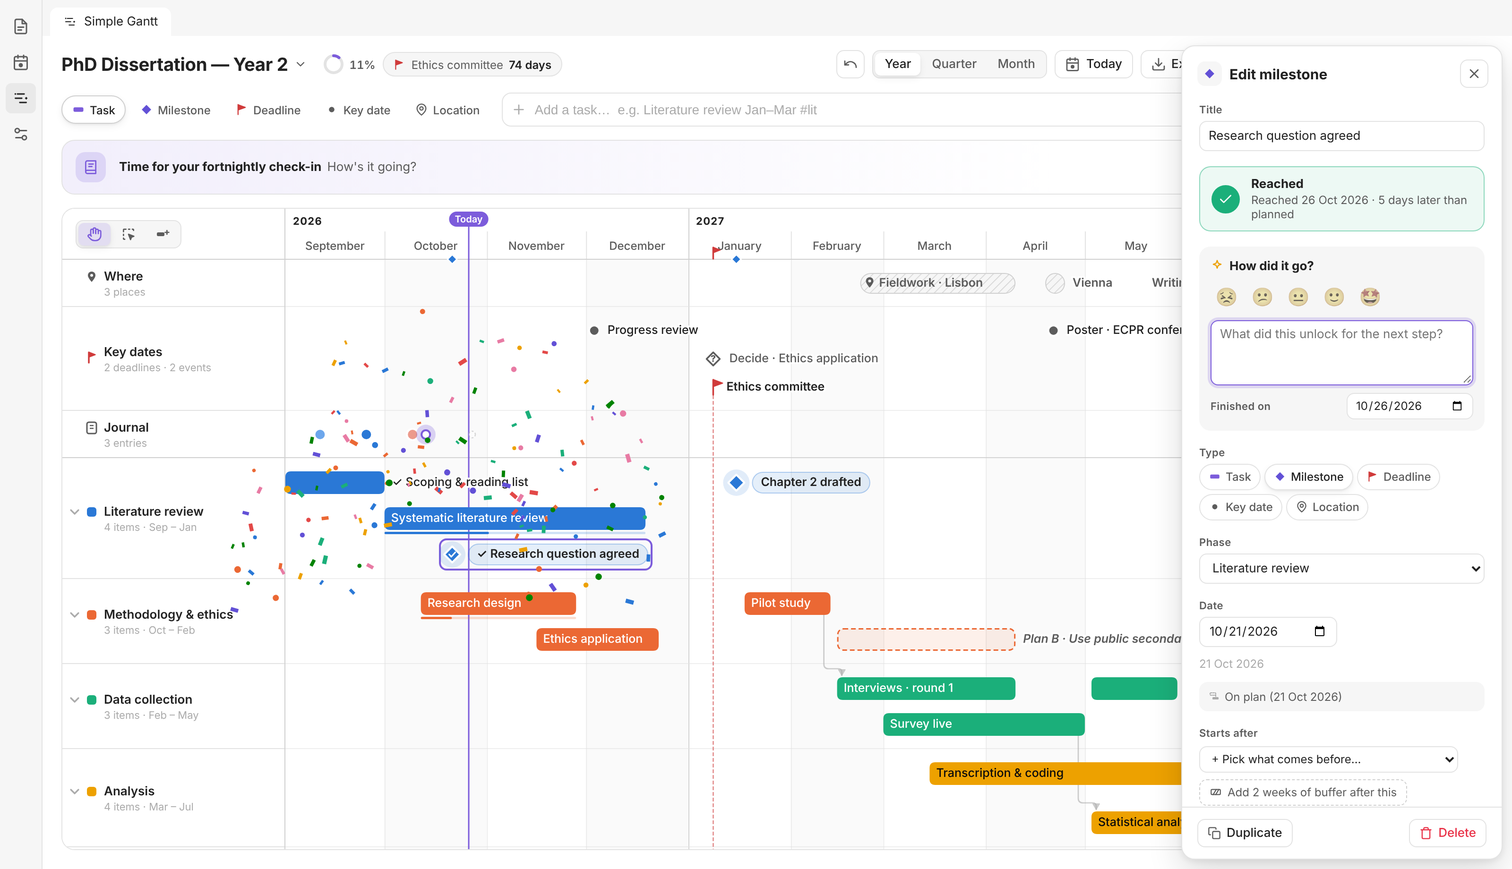
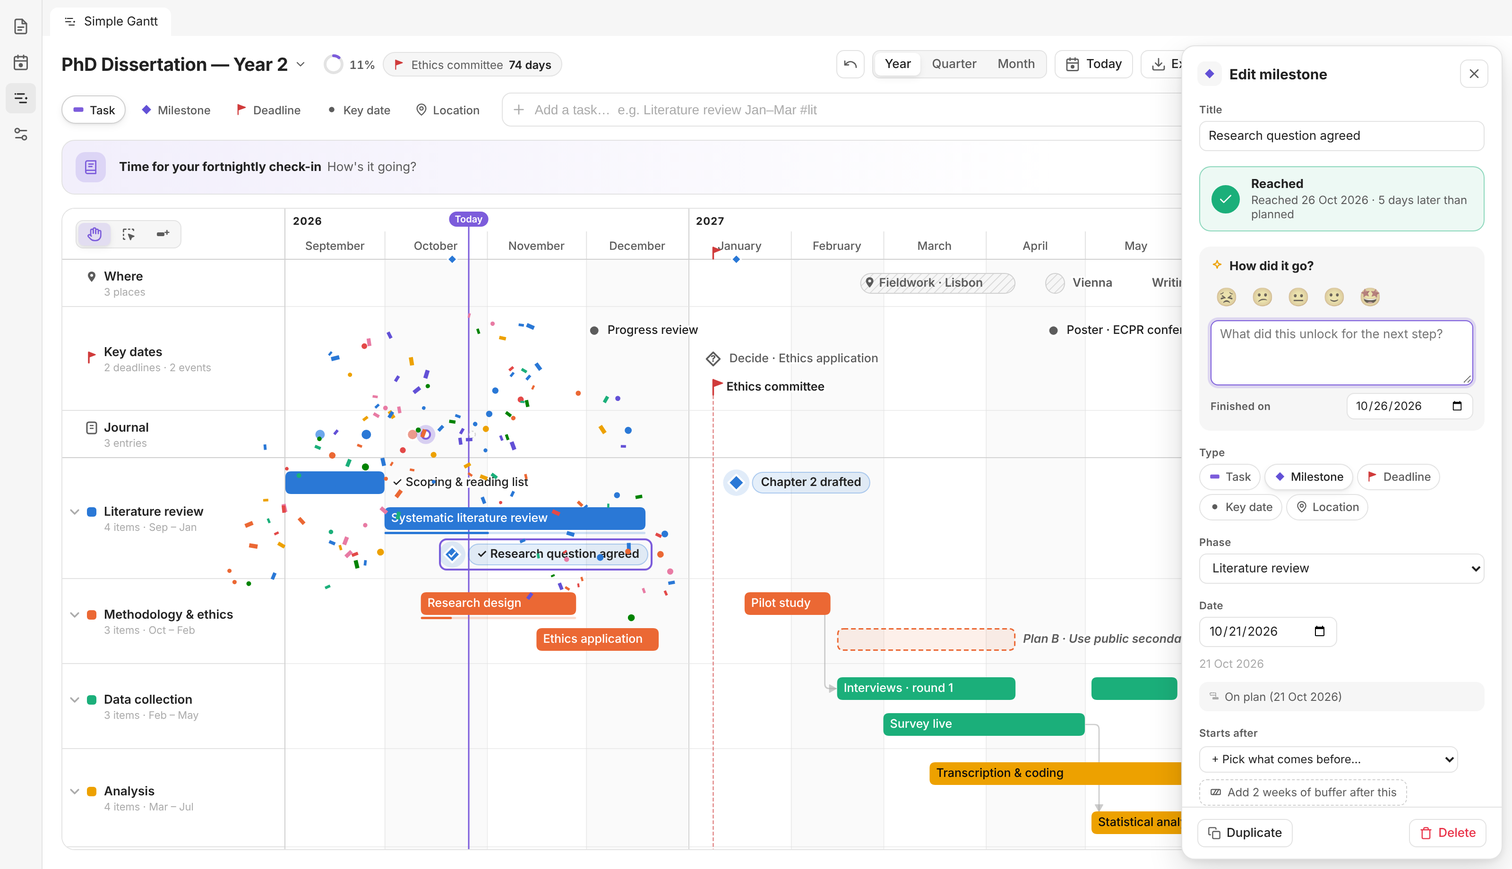
0.6.11: Clearer arrows, Plan B as a dashed extension of its task
- Arrows choose the simplest clear path: straight down when the next step starts under the
  previous one, out of the side and down onto it when it starts further out, or down and into
  its side; whichever runs through the fewest other bars and labels, with the fewest bends
- Arrow tips touch the box they point at; slightly larger heads and darker lines on paper
- A Plan B that carries on from its task sits on the task's row as a dashed extension of the bar,
  with its name above, so no arrow has to cross it
- On paper, slimmer bars leave more room between rows for the arrows

diff --git a/src/core/render.ts b/src/core/render.ts
@@ -363,7 +363,9 @@ export function paintBody(layout: Layout, o: PaintOptions): SVGSVGElement {
 			return `url(#${id})`;
 		},
 	};
-	for (const p of layout.placed) paintItem(items, p, layout, o, fills);
+	// A Plan B that continues a task goes underneath it, so only the part past the task's end shows.
+	const under = (p: Placed) => p.kind === "ghost" && !!p.attachedTo;
+	for (const p of [...layout.placed.filter(under), ...layout.placed.filter((p) => !under(p))]) paintItem(items, p, layout, o, fills);
 	// The selected link's detach button sits on top of everything.
 	if (detach) {
 		const [x, y] = detach;
@@ -527,6 +529,7 @@ function paintLinks(svg: SVGSVGElement, layout: Layout, o: PaintOptions): Pt | n
 	const byId = new Map(layout.placed.filter((p) => p.kind === "item").map((p) => [p.item.id, p]));
 	const g = svgEl("g", { class: "sg-links", fill: "none", "pointer-events": "none" }, svg);
 	let detach: Pt | null = null;
+	const obstacles = obstaclesOf(layout, !!o.print);
 	for (const succ of byId.values()) {
 		for (const id of succ.item.after ?? []) {
 			const pred = byId.get(id);
@@ -535,10 +538,10 @@ function paintLinks(svg: SVGSVGElement, layout: Layout, o: PaintOptions): Pt | n
 			if (o.print && Math.abs(layout.lanes.indexOf(pred.lane) - layout.lanes.indexOf(succ.lane)) > 1) continue;
 			// …and so is one into a buffer that's drawn as part of its task's bar.
 			if (o.print && succ.attachedTo) continue;
-			const pts = routeLink(pred, succ, layout);
+			const pts = routeLink(pred, succ, layout, obstacles, !!o.print);
 			if (!pts) continue;
 			const bad = succ.startDay < earliestAfter(pred.item, succ.item);
-			const color = bad ? theme.deadline : theme.inkMuted;
+			const color = bad ? theme.deadline : o.print ? theme.inkSecondary : theme.inkMuted;
 			// Links to or from a deadline duplicate its dashed rule: on screen they show on hover, on paper not at all.
 			const touchesDeadline = pred.item.type === "deadline" || succ.item.type === "deadline";
 			if (touchesDeadline && !bad && !o.interactive) continue;
@@ -549,7 +552,7 @@ function paintLinks(svg: SVGSVGElement, layout: Layout, o: PaintOptions): Pt | n
 			const cls = `sg-link${bad ? " is-bad" : ""}${quiet ? " is-quiet" : ""}${selected ? " is-selected" : ""}${crit}`;
 			const link = svgEl("g", { class: cls, "data-link": key }, g);
 			const d = roundedPath(pts, 5);
-			const attrs = { stroke: color, "stroke-linecap": "round", "stroke-linejoin": "round", opacity: bad ? 0.9 : o.print ? 0.45 : 0.6 };
+			const attrs = { stroke: color, "stroke-linecap": "round", "stroke-linejoin": "round", opacity: bad ? 0.9 : o.print ? 0.7 : 0.6 };
 			svgEl("path", { d, ...attrs, "stroke-width": bad ? 1.6 : 1.35, class: "sg-link-line" }, link);
 			svgEl("path", { d: arrowHead(pts), ...attrs, fill: color, "stroke-width": 1, class: "sg-link-head" }, link);
 			// A wide invisible stroke makes the thin line easy to hover and click.
@@ -576,49 +579,117 @@ function midpoint(pts: Pt[]): Pt {
 
 type Pt = [number, number];
 
+interface Box { x0: number; y0: number; x1: number; y1: number }
+/** Something an arrow should avoid: a mark itself, or its label. */
+interface Obstacle { box: Box; owner: Placed; mark: boolean }
+
+/** Everything an arrow should avoid running through: marks, their labels and buffer captions. */
+function obstaclesOf(layout: Layout, print: boolean): Obstacle[] {
+	const out: Obstacle[] = [];
+	const fs = layout.g.fontSize;
+	for (const p of layout.placed) {
+		const h = halfHeight(p, print);
+		out.push({ owner: p, mark: true, box: { x0: p.x0, y0: p.cy - h, x1: p.x1, y1: p.cy + h } });
+		if (!p.label || p.labelInside) continue;
+		const lx0 = p.labelAnchor === "end" ? p.labelX - p.labelW : p.labelX;
+		const above = !!p.attachedTo;
+		const ly = above ? p.cy - p.lane.markH / 2 - fs / 2 - 1.5 : p.cy;
+		out.push({ owner: p, mark: false, box: { x0: lx0, y0: ly - fs * 0.55, x1: lx0 + p.labelW, y1: ly + fs * 0.55 } });
+	}
+	return out;
+}
+
+/** Half the height of a mark, from its centre to the edge an arrow touches. */
+function halfHeight(p: Placed, print: boolean): number {
+	const t = p.item.type;
+	if (p.kind !== "item" || t === "task" || t === "location") return p.lane.markH / 2;
+	if (t === "milestone") return (print ? 9.5 : 8.5) + 0.8;
+	if (t === "deadline") return 8.5;
+	return 6.5;
+}
+
 /**
- * Orthogonal route for a finish-to-start link. It leaves from just under (or over) the end of the
- * predecessor, so it never crosses that item's label, and drops onto the starting corner of the
- * next bar, so a chain of steps reads as a staircase. Milestones, deadlines and key dates are
- * entered through their top (or bottom) point.
+ * The route for a finish-to-start link. A few clean shapes are tried and the one that runs through the
+ * fewest other bars and labels wins, with fewer bends breaking ties:
+ *  - straight down (or up) when the next step starts under the previous one,
+ *  - out of the side of the previous step, then down onto the top of the next one (┐),
+ *  - down from the previous step, then into the side of the next one (└→),
+ *  - a staircase through the gap above the next step, only when nothing simpler is clear.
+ * Arrows always end on the edge of the mark they point at.
  */
-function routeLink(pred: Placed, succ: Placed, layout: Layout): Pt[] | null {
-	const down = succ.cy > pred.cy;
-	const sign = down ? 1 : -1;
+function routeLink(pred: Placed, succ: Placed, layout: Layout, obstacles: Obstacle[], print: boolean): Pt[] | null {
+	const sign = succ.cy > pred.cy ? 1 : -1;
 	const point = (p: Placed) => p.item.type !== "task" && p.item.type !== "location";
-	const predHalf = point(pred) ? 9 : pred.lane.markH / 2;
-	const succHalf = point(succ) ? 10 : succ.lane.markH / 2;
-	const sx = point(pred) ? (pred.x0 + pred.x1) / 2 : pred.x1 - Math.min(7, (pred.x1 - pred.x0) / 2);
-	const sy = pred.cy + sign * predHalf;
-	const tx = succ.x0 - 2;
-	const ty = succ.cy;
+	const pc = (pred.x0 + pred.x1) / 2, sc = (succ.x0 + succ.x1) / 2;
+	const ph = halfHeight(pred, print), sh = halfHeight(succ, print);
+	const pEdge = pred.cy + sign * ph;
+	const sEdge = succ.cy - sign * sh;
 
 	if (Math.abs(pred.cy - succ.cy) < 1) {
 		// Same row: a short straight line from the end of the predecessor's footprint (bar or label).
 		const from = pred.labelInside || !pred.labelW || pred.labelAnchor === "end" ? pred.x1 + 2 : pred.labelX + pred.labelW + 6;
-		return tx - from >= 10 ? [[from, ty], [tx, ty]] : null;
+		const to = succ.x0 - 1;
+		return to - from >= 10 ? [[from, succ.cy], [to, succ.cy]] : null;
 	}
-	const edge = succ.cy - sign * (succHalf + 2);
-	const gap = succ.cy - sign * (succHalf + (layout.g.rowPitch - layout.g.barH) / 2 + 2);
-	if (point(succ)) {
-		const cx = (succ.x0 + succ.x1) / 2;
-		// Right under the predecessor: a straight drop.
-		if (point(pred) ? Math.abs(cx - sx) < 1 : cx >= pred.x0 + 3 && cx <= pred.x1 - 1) return [[cx, sy], [cx, edge]];
-		// Nothing to the right of the predecessor: leave from its end, across, then down onto the point.
-		const clear = !pred.labelW || pred.labelAnchor === "end" || (!point(pred) && pred.labelInside);
-		const ex = pred.x1 + 1;
-		if (clear && cx - ex >= 4) return [[ex, pred.cy], [cx, pred.cy], [cx, edge]];
-		return [[sx, sy], [sx, gap], [cx, gap], [cx, edge]];
+
+	// Where the arrow may leave the predecessor and land on the successor.
+	// (A bar may be left from just past its end: where one step ends and the next begins, a straight drop.)
+	const pRange: [number, number] = point(pred) ? [pc, pc] : [pred.x0 + 2, pred.x1 + 3];
+	const sRange: [number, number] = point(succ) ? [sc, sc] : [succ.x0 + Math.min(1, (succ.x1 - succ.x0) / 2), succ.x1 - 2];
+	const want = point(succ) ? sc : succ.x0 + Math.min(8, (succ.x1 - succ.x0) / 2);
+	const pSide = point(pred) ? pc + ph + 1 : pred.x1 + 1;
+	const pEnd = point(pred) ? pc : pred.x1 - Math.min(6, (pred.x1 - pred.x0) / 2);
+	const sSide = point(succ) ? sc - sh - 1 : succ.x0 - 1;
+	const gapY = sEdge - sign * Math.max(4, Math.min(10, (layout.g.rowPitch - layout.g.barH) / 2));
+
+	const options: { pts: Pt[]; bends: number }[] = [];
+	// Straight drop.
+	const lo = Math.max(pRange[0], sRange[0]), hi = Math.min(pRange[1], sRange[1]);
+	if (lo <= hi + 0.01) {
+		const x = Math.min(hi, Math.max(lo, want));
+		options.push({ pts: [[x, pEdge], [x, sEdge]], bends: 0 });
 	}
-	// Into a bar: arrive from above (or below) on its starting corner, so a chain of steps reads as a staircase.
-	const cx = succ.x0 + Math.min(5, (succ.x1 - succ.x0) / 2);
-	const range: [number, number] = point(pred) ? [sx - 3, sx + 3] : [pred.x0 + 3, pred.x1 + 4];
-	// Starts under the predecessor (or right at its end): one straight drop.
-	if (cx >= range[0] && cx <= range[1]) return [[cx, sy], [cx, edge]];
-	// Starts later: down from the predecessor's end, across just above the successor, then down onto its corner.
-	if (cx > range[1]) return [[sx, sy], [sx, gap], [cx, gap], [cx, edge]];
-	// Fully backwards: come round through the gap and enter from the left.
-	return [[sx, sy], [sx, gap], [tx - 10, gap], [tx - 10, ty], [tx, ty]];
+	// Out of the side, then down onto the top.
+	const tx = point(succ) ? sc : Math.min(sRange[1], Math.max(want, pSide + 6));
+	if (tx - pSide >= 4) options.push({ pts: [[pSide, pred.cy], [tx, pred.cy], [tx, sEdge]], bends: 1 });
+	// Down, then into the side.
+	if (sSide - pEnd >= 8) options.push({ pts: [[pEnd, pEdge], [pEnd, succ.cy], [sSide, succ.cy]], bends: 1.5 });
+	// Staircase through the gap next to the successor.
+	if (Math.abs(want - pEnd) >= 2) options.push({ pts: [[pEnd, pEdge], [pEnd, gapY], [want, gapY], [want, sEdge]], bends: 2.5 });
+	// Fully backwards: round through the gap and in from the left.
+	options.push({ pts: [[pEnd, pEdge], [pEnd, gapY], [sSide - 10, gapY], [sSide - 10, succ.cy], [sSide, succ.cy]], bends: 4 });
+
+	let best: Pt[] | null = null, bestCost = Infinity;
+	for (const o of options) {
+		const cost = crossings(o.pts, obstacles, pred, succ) * 100 + o.bends * 3 + pathLength(o.pts) / 400;
+		if (cost < bestCost) [best, bestCost] = [o.pts, cost];
+	}
+	return best;
+}
+
+/** How many marks or labels a route runs through (its own two ends don't count). */
+function crossings(pts: Pt[], obstacles: Obstacle[], pred: Placed, succ: Placed): number {
+	let n = 0;
+	for (const { box, owner, mark } of obstacles) {
+		// The two marks the route connects are its endpoints; their labels still count.
+		if (mark && (owner === pred || owner === succ)) continue;
+		const b = { x0: box.x0 + 1, y0: box.y0 + 1, x1: box.x1 - 1, y1: box.y1 - 1 };
+		for (let i = 1; i < pts.length; i++) {
+			const [ax, ay] = pts[i - 1], [bx, by] = pts[i];
+			const sx0 = Math.min(ax, bx), sx1 = Math.max(ax, bx), sy0 = Math.min(ay, by), sy1 = Math.max(ay, by);
+			if (sx1 >= b.x0 && sx0 <= b.x1 && sy1 >= b.y0 && sy0 <= b.y1) {
+				n++;
+				break;
+			}
+		}
+	}
+	return n;
+}
+
+function pathLength(pts: Pt[]): number {
+	let l = 0;
+	for (let i = 1; i < pts.length; i++) l += Math.abs(pts[i][0] - pts[i - 1][0]) + Math.abs(pts[i][1] - pts[i - 1][1]);
+	return l;
 }
 
 /** A polyline with softly rounded corners (radius r, never more than half of either segment). */
@@ -642,8 +713,8 @@ function arrowHead(pts: Pt[]): string {
 	const [px, py] = pts[pts.length - 2];
 	const len = Math.hypot(x - px, y - py) || 1;
 	const ux = (x - px) / len, uy = (y - py) / len;
-	const bx = x - ux * 6, by = y - uy * 6;
-	return `M${x},${y} L${bx - uy * 3.5},${by + ux * 3.5} L${bx + uy * 3.5},${by - ux * 3.5} Z`;
+	const bx = x - ux * 7, by = y - uy * 7;
+	return `M${x},${y} L${bx - uy * 4},${by + ux * 4} L${bx + uy * 4},${by - ux * 4} Z`;
 }
 
 /** Where an item sat in the saved plan, drawn as a faint dashed outline when it has moved since. */
@@ -699,12 +770,19 @@ function paintDerived(g: SVGGElement, p: Placed, layout: Layout, o: PaintOptions
 	}
 	if (p.kind === "ghost") {
 		const top = p.cy - layout.g.barH / 2;
-		svgEl("rect", {
-			x: p.x0 + 0.75, y: top + 0.75, width: Math.max(2, p.x1 - p.x0 - 1.5), height: layout.g.barH - 1.5, rx: 6,
+		const w = Math.max(2, p.x1 - p.x0 - 1.5);
+		svgEl("path", {
+			d: barPath(p.x0 + 0.75, top + 0.75, w, layout.g.barH - 1.5, 6, !p.squareLeft, !p.squareRight),
 			fill: color, "fill-opacity": 0.1, stroke: color, "stroke-width": 1.5, "stroke-dasharray": "5 3",
 			class: "sg-mark", "data-part": "body",
 		}, g);
-		text(g, p.labelX, p.cy, p.label, { ...labelAttrs, ...(p.labelInside ? {} : halo(theme)), fill: p.labelInside ? color : theme.inkSecondary, "font-style": "italic", "font-weight": 600 });
+		if (p.attachedTo) {
+			// A dashed extension of its task (drawn under the bar), named just above.
+			text(g, p.labelX, top - layout.g.fontSize / 2 - 1.5, p.label, {
+				...labelAttrs, ...halo(theme), "text-anchor": p.labelAnchor, "font-size": layout.g.fontSize - 1.5,
+				fill: theme.inkSecondary, "font-style": "italic",
+			});
+		} else text(g, p.labelX, p.cy, p.label, { ...labelAttrs, ...(p.labelInside ? {} : halo(theme)), fill: p.labelInside ? color : theme.inkSecondary, "font-style": "italic", "font-weight": 600 });
 	} else if (p.kind === "decision") {
 		const r = 7;
 		const due = p.state === "due";

diff --git a/dev/integration.ts b/dev/integration.ts
@@ -3,6 +3,7 @@ import { App, notices } from "obsidian";
 import SimpleGanttPlugin from "../src/main";
 import { isOn } from "../src/core/features";
 import { renderPrintPages } from "../src/core/print";
+import { normalizeProject } from "../src/core/serialize";
 
 const log: string[] = [];
 const sleep = (ms: number) => new Promise((r) => setTimeout(r, ms));
@@ -505,6 +506,25 @@ function check(cond: unknown, msg: string) {
 		const words = [...sheet.querySelectorAll("text")].map((t) => t.textContent ?? "");
 		check(!words.some((w) => /^(PHASES|KEY|DEADLINES|PHASE)$/.test(w) || /\d+ items? ·/.test(w)), "the printout has no legend, deadline band or item counts");
 		check(deadlineTitles.length > 0 && deadlineTitles.every((d: string) => words.filter((w) => w.startsWith(d)).length === 1), `each deadline is named once (${deadlineTitles.length} deadlines)`);
+		// Arrows: the cases from the sketches each take one straight drop or a single bend.
+		const sketch = normalizeProject({
+			title: "Arrows", start: "2026-11-01", end: "2027-08-31",
+			phases: [{ id: "d", name: "Data" }, { id: "w", name: "Writing" }, { id: "s", name: "Submission" }],
+			items: [
+				{ id: "e1", type: "task", title: "Selection and acquisition of ECU", phase: "d", start: "2026-11-10", end: "2026-12-04",
+					planB: { by: "2026-11-27", title: "Public image", start: "2026-11-30", end: "2026-12-11" } },
+				{ id: "em", type: "milestone", title: "ECU in hand", phase: "d", start: "2026-12-04", after: ["e1"] },
+				{ id: "rd", type: "task", title: "Results", phase: "w", start: "2027-06-01", end: "2027-07-30" },
+				{ id: "fd", type: "milestone", title: "Full draft", phase: "w", start: "2027-08-02", after: ["rd"] },
+				{ id: "rv", type: "task", title: "Revisions", phase: "s", start: "2027-08-02", end: "2027-08-20", after: ["fd"] },
+				{ id: "pf", type: "task", title: "Proofread", phase: "s", start: "2027-08-21", end: "2027-08-25", after: ["rv"] },
+			],
+		});
+		const sheetA = renderPrintPages(sketch, { today: 20761 })[0];
+		const bends = (key: string) => (sheetA.querySelector(`.sg-link[data-link="${key}"] .sg-link-line`)?.getAttribute("d")?.match(/Q/g) ?? []).length;
+		const drawn = ["e1 em", "rd fd", "fd rv", "rv pf"].filter((k) => sheetA.querySelector(`.sg-link[data-link="${k}"]`));
+		check(drawn.length === 4 && bends("e1 em") === 0 && bends("fd rv") === 0, "an arrow to a step that starts under the previous one drops straight down");
+		check(bends("rd fd") <= 1 && bends("rv pf") <= 1, `an arrow to a step that starts further out leaves from the side, then goes down (${bends("rd fd")}, ${bends("rv pf")} bends)`);
 		log.push(`notices: ${JSON.stringify(notices)}`);
 		(window as any).__note = await app.vault.read(file);
 	} catch (e) {

diff --git a/src/core/layout.ts b/src/core/layout.ts
@@ -346,10 +346,17 @@ export function computeLayout(project: Project, opts: LayoutOptions): Layout {
 			return { mark, item, s, e, label, labelW, x0, x1, labelX, labelInside, labelAnchor, from, to };
 		});
 		// Buffer time sits on the row of the task it belongs to (one it overlaps, or follows within a week),
-		// joined to the bar like an extension of it, with its name above.
+		// joined to the bar like an extension of it, with its name above. A Plan B that runs past the end of
+		// its task is drawn the same way: a dashed extension of the bar.
 		const hostOf = new Map<number, number>();
 		const isTask = (q: (typeof pre)[number]) => q.mark.kind === "item" && q.item.type === "task" && !q.item.dropped;
 		if (!strip && !flat) {
+			pre.forEach((b, i) => {
+				if (b.mark.kind !== "ghost") return;
+				const j = pre.findIndex((t) => isTask(t) && t.item.id === b.mark.parentId);
+				// Only when it carries on from the task (overlaps it or starts within a week of its end).
+				if (j >= 0 && b.e > pre[j].e && b.s - pre[j].e <= 7) hostOf.set(i, j);
+			});
 			pre.forEach((b, i) => {
 				if (!isTask(b) || !b.item.buffer) return;
 				let best = -1, bestScore = Infinity;
@@ -368,8 +375,10 @@ export function computeLayout(project: Project, opts: LayoutOptions): Layout {
 				const b = pre[i], t = pre[j];
 				b.labelW = b.label ? opts.measure(b.label, 500, labelSize) : 0;
 				b.labelInside = false;
-				b.labelAnchor = b.x0 + b.labelW + 2 > width ? "end" : "start";
-				b.labelX = b.labelAnchor === "end" ? b.x1 : b.x0 + 1;
+				// Over the part that shows: a Plan B under its task only shows past the task's end.
+				const shown = b.mark.kind === "ghost" ? Math.max(b.x0, t.x1) : b.x0;
+				b.labelAnchor = shown + b.labelW + 2 > width ? "end" : "start";
+				b.labelX = b.labelAnchor === "end" ? b.x1 : shown + 1;
 				b.from = Math.min(t.from, b.x0);
 				b.to = b.x1;
 				// The task's own label moves past the buffer (or out of the bar, if the buffer covers it).
@@ -431,8 +440,9 @@ export function computeLayout(project: Project, opts: LayoutOptions): Layout {
 				const b = pre[i], t = pre[j];
 				return { attachedTo: t.item.id, squareLeft: b.s <= t.e + 1, squareRight: b.e < t.e };
 			}
-			const follows = [...hostOf].some(([bi, tj]) => tj === i && pre[bi].s === pre[i].e + 1);
-			return follows ? { squareRight: true } : {};
+			// The task's end is square where something continues it.
+			const continued = [...hostOf].some(([bi, tj]) => tj === i && pre[bi].s <= pre[i].e + 1 && pre[bi].e > pre[i].e);
+			return continued ? { squareRight: true } : {};
 		};
 
 		pre.forEach((p, i) => {

diff --git a/dev/nudges.test.ts b/dev/nudges.test.ts
@@ -347,5 +347,24 @@ t("buffers sit on their task's row, joined to it, with the task's label moved pa
 	assert.ok(at("s1").labelInside || at("s1").labelX >= at("sb").x1, "the task's own label doesn't sit on the buffer");
 });
 
+t("a Plan B that carries on from its task is drawn on the task's row; a later one keeps its own", () => {
+	const p = normalizeProject({
+		start: "2026-11-01", end: "2027-03-31",
+		phases: [{ id: "d", name: "Data" }],
+		items: [
+			{ id: "e1", type: "task", title: "Get an ECU", phase: "d", start: "2026-11-10", end: "2026-12-04",
+				planB: { by: "2026-11-27", title: "Public image", start: "2026-11-30", end: "2026-12-11" } },
+			{ id: "x1", type: "task", title: "Ethics", phase: "d", start: "2026-11-01", end: "2026-11-20",
+				planB: { by: "2027-01-08", title: "Secondary data", start: "2027-01-18", end: "2027-02-20" } },
+		],
+	});
+	const lay = computeLayout(p, { pxPerDay: 3, showEmptyLanes: false, measure: (s: string) => s.length * 6, print: true, today });
+	const at = (id: string) => lay.placed.find((x) => x.item.id === id)!;
+	assert.equal(at("e1~planb").attachedTo, "e1");
+	assert.equal(at("e1~planb").cy, at("e1").cy);
+	assert.ok(at("e1").squareRight, "the task's end joins the dashed extension");
+	assert.equal(at("x1~planb").attachedTo, undefined, "a Plan B weeks later stays separate");
+});
+
 console.log(failed ? `\n${failed} failed` : `\nall nudge/journal/link/feature tests passed`);
 if (failed) process.exit(1);

diff --git a/src/core/print.ts b/src/core/print.ts
@@ -1,5 +1,5 @@
 import { formatDay, toDay } from "./dates";
-import { Lane, Layout, computeLayout } from "./layout";
+import { COMPACT, Lane, Layout, PRINT_GEOMETRY, computeLayout } from "./layout";
 import { NS, PaintOptions, formatPeriod, makeMeasure, nest, paintBody, paintHeader, paintLabels, svgEl, text } from "./render";
 import { PRINT_THEME, Theme } from "./theme";
 import type { Project } from "./types";
@@ -33,8 +33,9 @@ export function renderPrintPages(project: Project, opts: PrintOptions = {}): SVG
 	// Roomier rows when the plan fits that way; tight print rows otherwise.
 	let layout = computeLayout(project, { pxPerDay: 1, showEmptyLanes: false, measure, density: "print", print: true });
 	const days = layout.viewEnd - layout.viewStart + 1;
-	for (const density of ["compact", "print"] as const) {
-		layout = computeLayout(project, { pxPerDay: timelineW / days, showEmptyLanes: false, measure, density, print: true });
+	// Slim bars with room between the rows, so the arrows between steps are easy to follow.
+	for (const geometry of [{ ...COMPACT, barH: 18, stripH: 16 }, PRINT_GEOMETRY]) {
+		layout = computeLayout(project, { pxPerDay: timelineW / days, showEmptyLanes: false, measure, geometry, print: true });
 		if (layout.bodyH <= room(title1, layout.headerH)) break;
 	}
 	// A plan that fits with room to spare gets airier rows, so the chart fills the sheet instead of leaving it half empty.

diff --git a/README.md b/README.md
@@ -115,8 +115,8 @@ The overview panel shows your next deadline, what's on now and what's coming up.
 - **Year overview first.** The board opens on the whole project with a today line. Zoom to **Quarter** or **Month**, or use Ctrl/Cmd + scroll.
 - **Quick add** understands dates, durations, phases, types and progress (see [Quick add](https://github.com/Nexziz/simple-gantt#quick-add)).
 - **Right-click an empty row** to add a task, milestone, deadline or place exactly there, with its name ready to type.
-- **Buffer time:** plan slack for the delays that always come (hatched bars, `~` in quick add).
-- **Plan B / decision points:** *"If this isn't done by 8 Jan, I'll use public data instead."* When the date comes, you decide: switch to Plan B (the original stays, faded, as a record) or carry on.
+- **Buffer time:** plan slack for holidays and the delays that always come (`~` in quick add). A buffer that falls inside a task, or right after it, is drawn as a hatched stretch of that task's bar with its name above.
+- **Plan B / decision points:** *"If this isn't done by 8 Jan, I'll use public data instead."* A Plan B that carries on from its task shows as a dashed extension of the bar. When the date comes, you decide: switch to Plan B (the original stays, faded, as a record) or carry on.
 - **Templates:** *Dissertation* (twelve months of research phases) or *Blank*.
 - **Import** from Excel, Google Sheets, Numbers, CSV/TSV, Markdown tables, Mermaid `gantt` charts or a plain list (one item per line, written like quick add; Markdown headings become phases, `- [x]` means done). Columns are recognised by name (Task, Phase, Start, End, Duration, % Complete, Status, Predecessors…), day-first and month-first dates are told apart, and links come along.
 </details>
@@ -127,7 +127,7 @@ The overview panel shows your next deadline, what's on now and what's coming up.
 - **Move around like on a Canvas:** drag empty space (or use the middle mouse button) to scroll the chart, and Ctrl/Cmd + scroll to zoom. The tools in the chart's corner switch what a drag on empty space does: move around (<kbd>H</kbd>, the default), select (<kbd>V</kbd>) or draw tasks (<kbd>D</kbd>).
 - **Drag** bars to move them, drag their edges to resize, or drag a task into another phase. This works with every tool. Hold <kbd>Shift</kbd> to move everything after it too.
 - **Select several:** use the select tool (<kbd>V</kbd>), <kbd>Shift</kbd>-drag a box on empty space, <kbd>Shift</kbd>/<kbd>Ctrl</kbd>-click, or press <kbd>Ctrl</kbd>+<kbd>A</kbd>. A small bar moves the selection by a week, links it in date order, ticks it off, duplicates or deletes it.
-- **Links** keep the order: when something slips, everything linked after it moves too. Arrows have clean right angles, enter milestones from the top and leave from the bottom. If a deadline would be missed, the arrow turns red and you get a warning.
+- **Links** keep the order: when something slips, everything linked after it moves too. Each arrow takes the simplest clear path: straight down when the next step starts under the previous one, otherwise out of the side and down onto it, avoiding other bars and labels where it can. If a deadline would be missed, the arrow turns red and you get a warning.
 - **Detach a link** by clicking its line, then **×** or <kbd>Delete</kbd>.
 - **Deadlines are easy to follow:** each one has a red flag on the date ruler and a dashed red line through the chart. Hover the line for its name and date, or click it to open the deadline.
 - **Rename in place** by double-clicking or pressing <kbd>F2</kbd>. **Duplicate** with <kbd>Ctrl</kbd>+<kbd>D</kbd>. **Undo** anything with <kbd>Ctrl</kbd>+<kbd>Z</kbd>.
